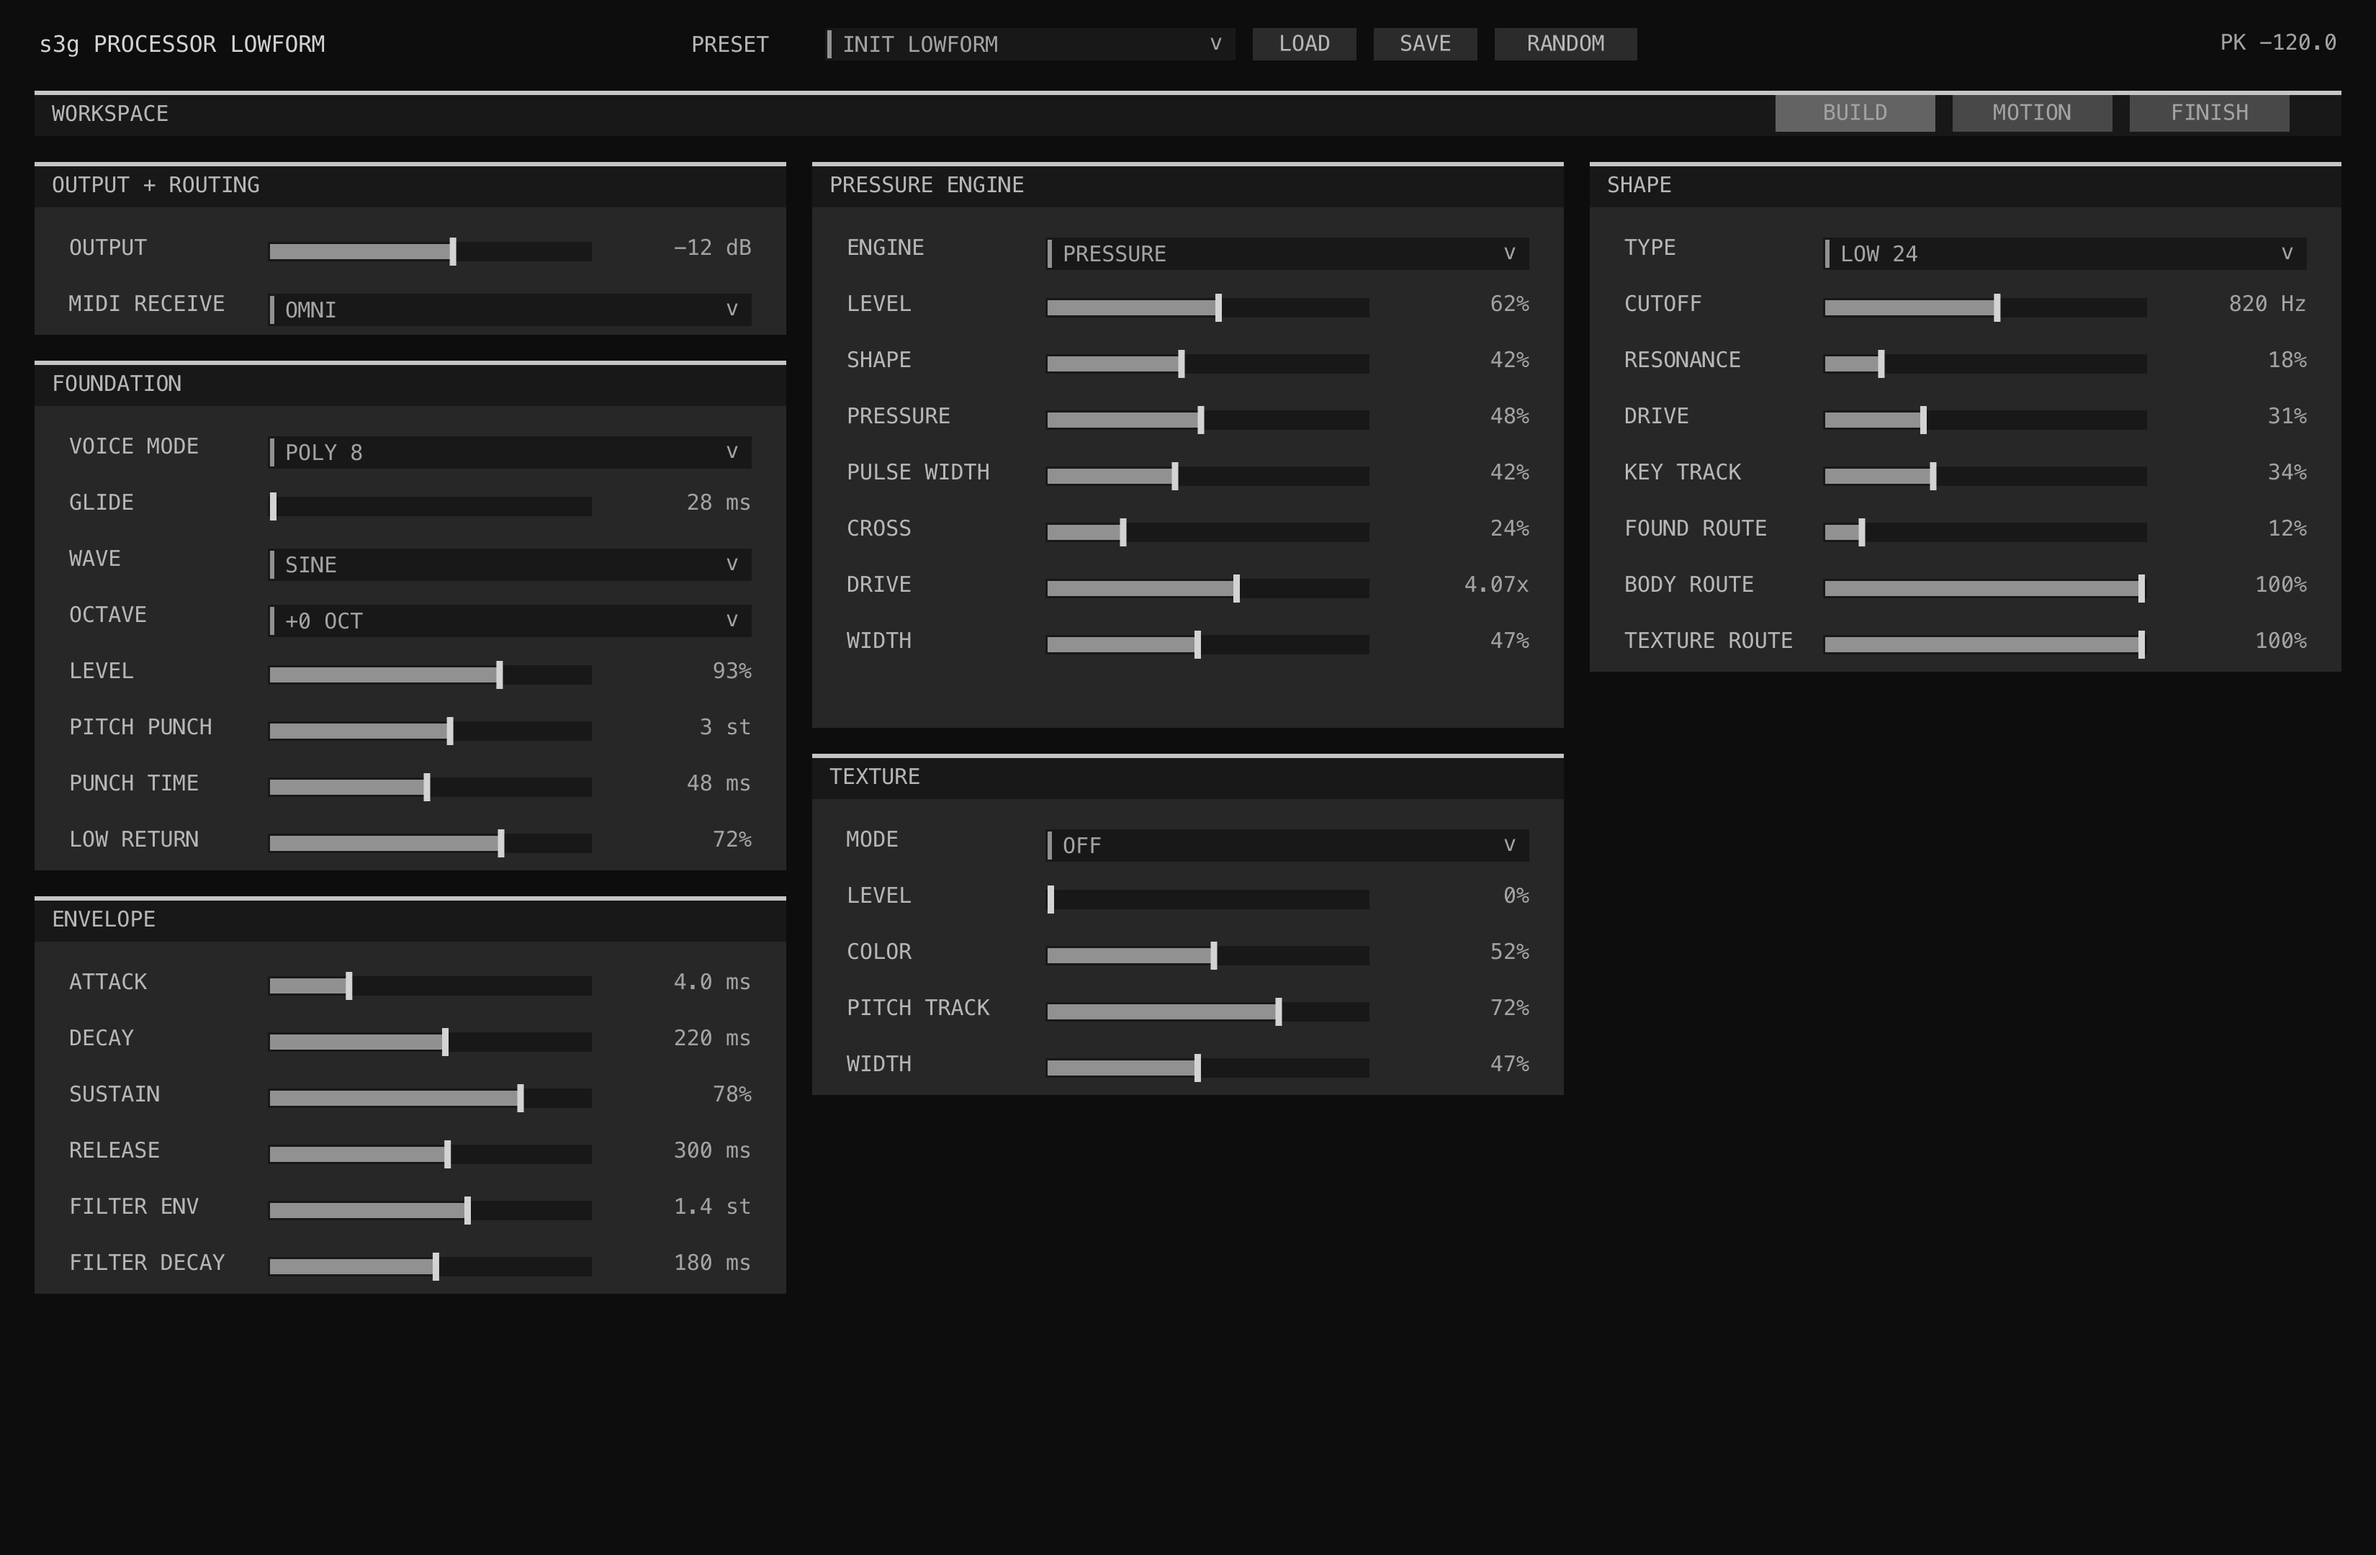
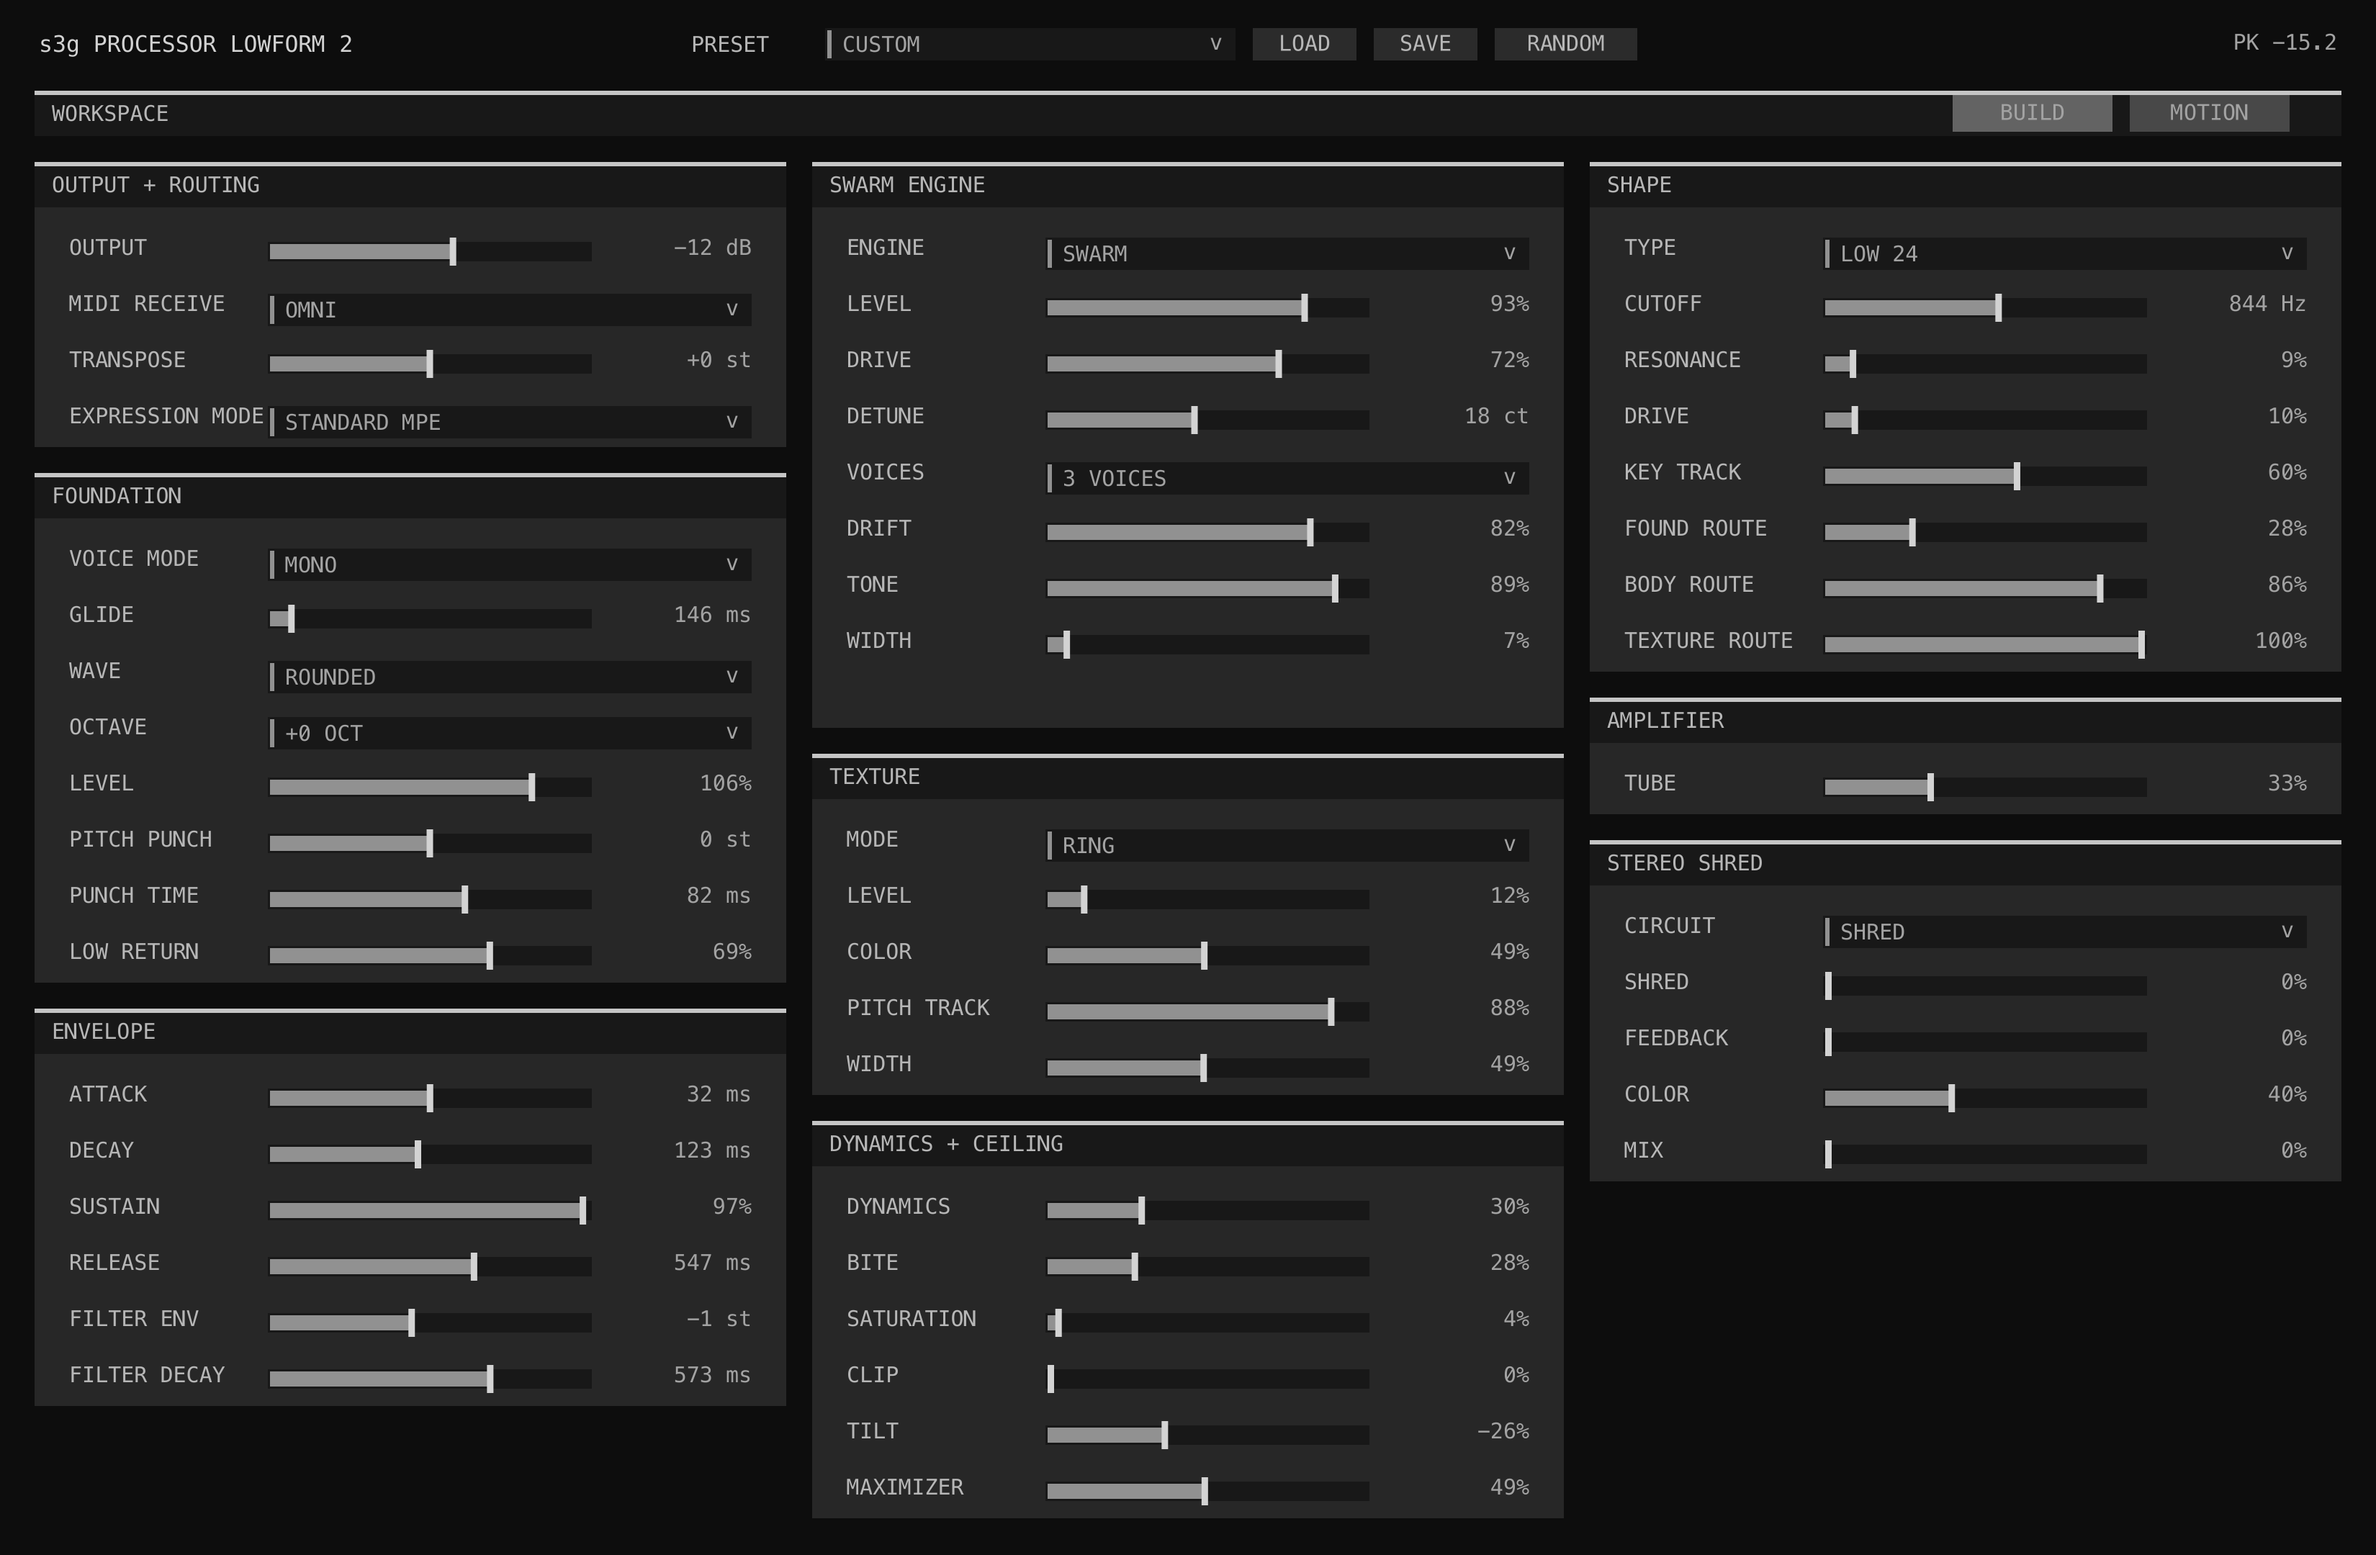
docs

diff --git a/docs/processor-stack.html b/docs/processor-stack.html
@@ -35,10 +35,10 @@
         <figure>
           <div class="doc-graphic">
             <button class="media-lightbox-trigger" type="button" data-lightbox-image="assets/plugin-guis/processor-stack.png" aria-label="Open the high-resolution Processor Stack interface screenshot">
-              <img src="assets/plugin-guis/processor-stack.png" alt="Processor Stack PLAY page showing output, dual-player controls, performance shaping, and two independent arpeggiators" loading="lazy" decoding="async">
+              <img src="assets/plugin-guis/processor-stack.png" alt="Processor Stack SCORE page showing score timing and randomize controls, A/B relationship settings, paired tablature grids, per-row locks, and arrangement slots" loading="lazy" decoding="async">
             </button>
           </div>
-          <figcaption>The <code>PLAY</code> page keeps dual-player relationships, articulation, stereo placement, and both arpeggiators available before moving into either rig's pedal, amplifier, speaker, and feedback controls.</figcaption>
+          <figcaption>The <code>SCORE</code> page places Player A and Player B on one shared timeline, with scale and relationship controls above paired tablature grids and the eight-slot arrangement below.</figcaption>
         </figure>
 
         <h2 id="workflow">Workflow</h2>

diff --git a/scripts/generate-plugin-screenshots.py b/scripts/generate-plugin-screenshots.py
@@ -97,7 +97,7 @@ GUI_COMMAND_RE = re.compile(
     (?P<width>[0-9]+)[ \t]+
     (?P<height>[0-9]+|\$\{s3g_spectral_24_gui_height\})
     (?:[ \t]+"(?P<prefix>[^"\r\n]+)"[ \t]+
-    (?P<mode>responsive-wide|responsive|proportional|dynamic|fixed|\$\{s3g_(?:macro|sample_player|sample_family|sample_rings|drum|topology|memory_effects|autogain)_gui_smoke_mode\}))?
+    (?P<mode>responsive-wide|responsive|proportional|dynamic|fixed|\$\{s3g_[A-Za-z0-9_]+_gui_smoke_mode\}))?
     [ \t]*(?:\#[^\r\n]*)?$
     """,
     re.VERBOSE,
@@ -246,6 +246,9 @@ def logical_gui_commands(path: Path) -> list[tuple[int, str]]:
                 matched = True
                 index += 1
                 break
+            if candidate.endswith(")"):
+                index += 1
+                break
             index += 1
             if index >= len(lines) or len(parts) >= 8:
                 break
@@ -278,39 +281,65 @@ def cmake_cache_bool(build_dir: Path, name: str, default: bool) -> bool:
     return match.group(1).upper() in {"ON", "TRUE", "1"}
 
 
+CONFIGURED_GUI_MODES = {
+    "${s3g_sample_family_gui_smoke_mode}": (
+        "S3G_ENABLE_SAMPLE_FAMILY_VSTGUI_ON_MACOS", "responsive"
+    ),
+    "${s3g_sample_rings_gui_smoke_mode}": (
+        "S3G_ENABLE_SAMPLE_FAMILY_VSTGUI_ON_MACOS", "responsive-wide"
+    ),
+    "${s3g_drum_gui_smoke_mode}": (
+        "S3G_ENABLE_DRUM_FAMILY_VSTGUI_ON_MACOS", "responsive"
+    ),
+    "${s3g_topology_gui_smoke_mode}": (
+        "S3G_ENABLE_TOPOLOGY_FAMILY_VSTGUI_ON_MACOS", "responsive-wide"
+    ),
+    "${s3g_memory_effects_gui_smoke_mode}": (
+        "S3G_ENABLE_MEMORY_EFFECTS_VSTGUI_ON_MACOS", "responsive"
+    ),
+    "${s3g_autogain_gui_smoke_mode}": (
+        "S3G_ENABLE_MONITORING_VSTGUI_ON_MACOS", "responsive"
+    ),
+    "${s3g_decoder_gui_smoke_mode}": (
+        "S3G_ENABLE_DECODERS_VSTGUI_ON_MACOS", "responsive"
+    ),
+    "${s3g_ambi_effect_gui_smoke_mode}": (
+        "S3G_ENABLE_AMBI_EFFECTS_VSTGUI_ON_MACOS", "responsive"
+    ),
+    "${s3g_routing_gui_smoke_mode}": (
+        "S3G_ENABLE_ROUTING_VSTGUI_ON_MACOS", "responsive"
+    ),
+    "${s3g_feedback_processors_gui_smoke_mode}": (
+        "S3G_ENABLE_FEEDBACK_PROCESSORS_VSTGUI_ON_MACOS", "responsive"
+    ),
+    "${s3g_midi_tools_gui_smoke_mode}": (
+        "S3G_ENABLE_MIDI_TOOLS_VSTGUI_ON_MACOS", "responsive"
+    ),
+    "${s3g_complex_processors_gui_smoke_mode}": (
+        "S3G_ENABLE_COMPLEX_PROCESSORS_VSTGUI_ON_MACOS", "responsive"
+    ),
+    "${s3g_complex_mixer_gui_smoke_mode}": (
+        "S3G_ENABLE_COMPLEX_PROCESSORS_VSTGUI_ON_MACOS", "responsive-wide"
+    ),
+    "${s3g_stereo_processors_gui_smoke_mode}": (
+        "S3G_ENABLE_STEREO_PROCESSORS_VSTGUI_ON_MACOS", "responsive"
+    ),
+}
+
+
 def resolve_configured_gui_mode(mode: str | None, build_dir: Path) -> str | None:
     portable = cmake_cache_bool(
         build_dir, "S3G_ENABLE_PORTABLE_CLAP_GUI", True
     )
     if mode in {"${s3g_macro_gui_smoke_mode}", "${s3g_sample_player_gui_smoke_mode}"}:
         return "proportional" if portable else "responsive"
-    sample_portable = portable and cmake_cache_bool(
-        build_dir, "S3G_ENABLE_SAMPLE_FAMILY_VSTGUI_ON_MACOS", False
-    )
-    if mode == "${s3g_sample_family_gui_smoke_mode}":
-        return "proportional" if sample_portable else "responsive"
-    if mode == "${s3g_sample_rings_gui_smoke_mode}":
-        return "proportional" if sample_portable else "responsive-wide"
-    if mode == "${s3g_drum_gui_smoke_mode}":
-        drum_portable = portable and cmake_cache_bool(
-            build_dir, "S3G_ENABLE_DRUM_FAMILY_VSTGUI_ON_MACOS", False
-        )
-        return "proportional" if drum_portable else "responsive"
-    if mode == "${s3g_topology_gui_smoke_mode}":
-        topology_portable = portable and cmake_cache_bool(
-            build_dir, "S3G_ENABLE_TOPOLOGY_FAMILY_VSTGUI_ON_MACOS", False
-        )
-        return "proportional" if topology_portable else "responsive-wide"
-    if mode == "${s3g_memory_effects_gui_smoke_mode}":
-        memory_portable = portable and cmake_cache_bool(
-            build_dir, "S3G_ENABLE_MEMORY_EFFECTS_VSTGUI_ON_MACOS", False
-        )
-        return "proportional" if memory_portable else "responsive"
-    if mode == "${s3g_autogain_gui_smoke_mode}":
-        monitoring_portable = portable and cmake_cache_bool(
-            build_dir, "S3G_ENABLE_MONITORING_VSTGUI_ON_MACOS", False
-        )
-        return "proportional" if monitoring_portable else "responsive"
+    configured = CONFIGURED_GUI_MODES.get(mode or "")
+    if configured is not None:
+        option, fallback = configured
+        enabled = portable and cmake_cache_bool(build_dir, option, False)
+        return "proportional" if enabled else fallback
+    if mode is not None and mode.startswith("${s3g_"):
+        raise UsageError(f"unsupported configured GUI smoke mode {mode!r}")
     return mode
 
 
